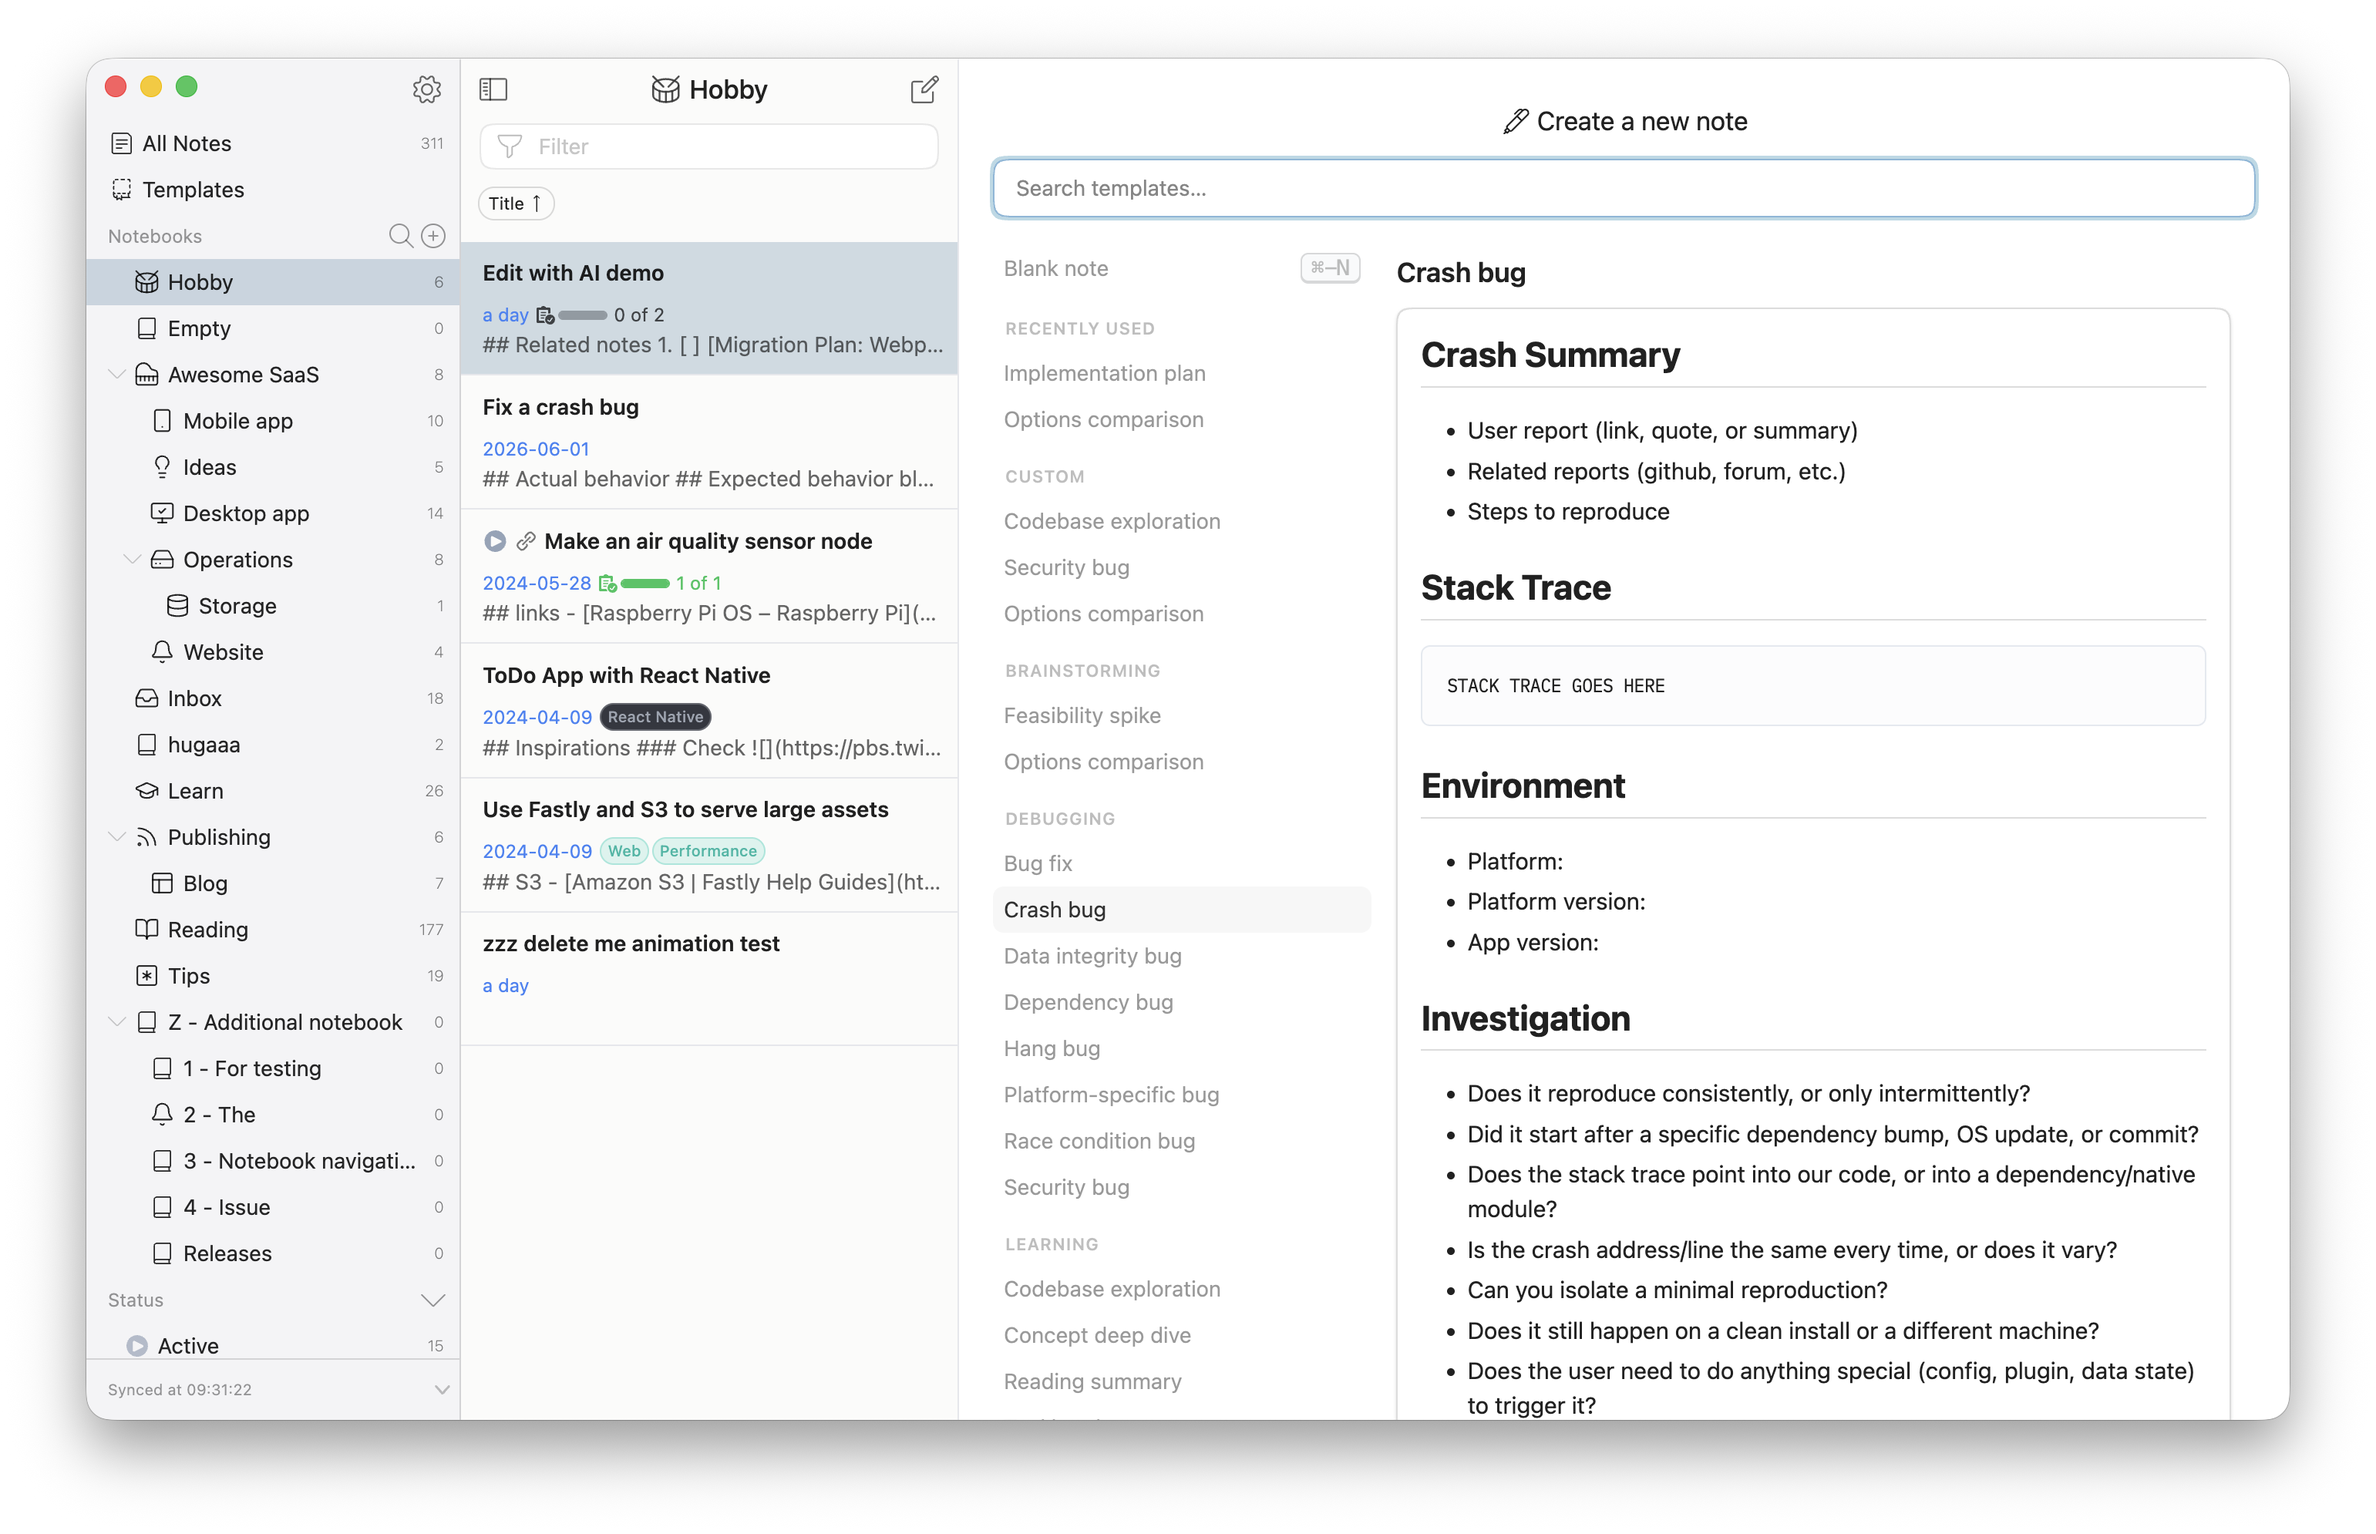
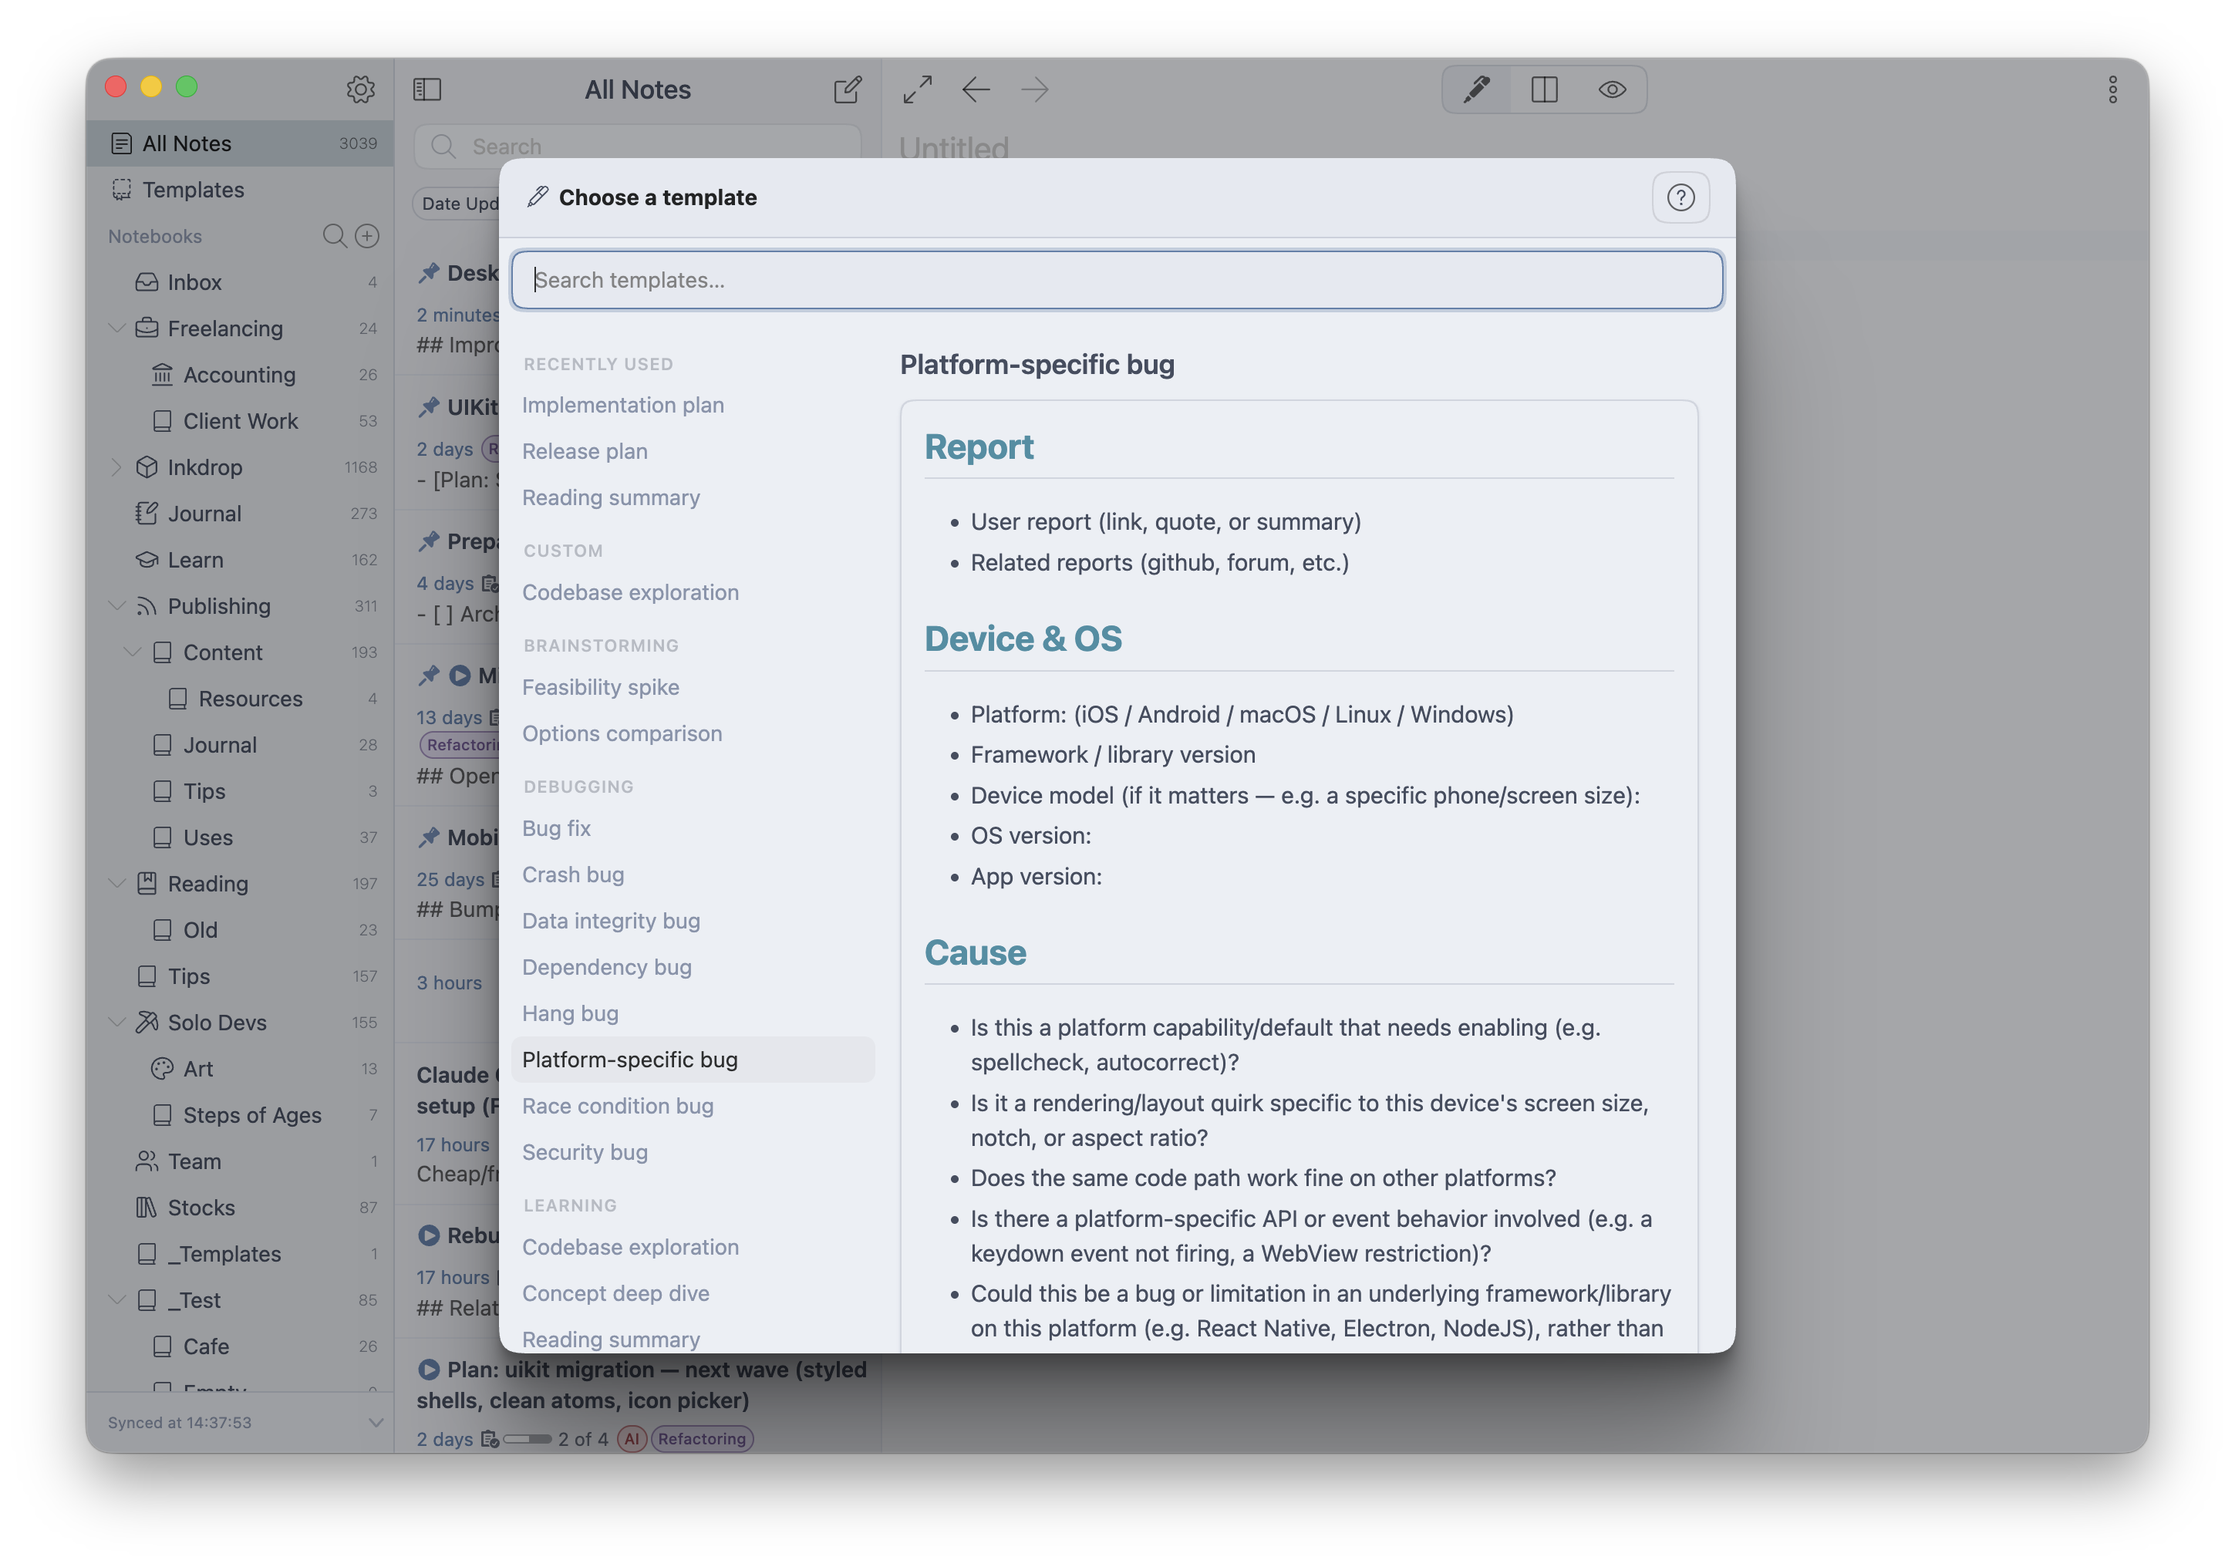
docs(reference): Revise template flow to the Choose a template picker
Update the note-templates and write-notes pages to reflect applying a template to an empty note via Cmd/Ctrl+T (Choose a template), replacing the blank-slate picker steps.

diff --git a/src/app/reference/write-notes/page.md b/src/app/reference/write-notes/page.md
@@ -12,25 +12,20 @@ Inkdrop supports both standard Markdown syntax and the
 
 ## Create notes
 
-To create a note:
-
-1. Click {% icon name="pencil-write" /%} in the upper-right corner of the note list, or press {% kbd s="Command+N" /%} / {% kbd s="Ctrl+N" /%}.  
-   Inkdrop opens the **Create a new note** picker.
-2. Select **Blank note** — or press {% kbd s="Command+N" /%} / {% kbd s="Ctrl+N" /%} again — to start with an untitled empty note.
+To create a note, click {% icon name="pencil-write" /%} in the upper-right corner of the note list, or press {% kbd s="Command+N" /%} / {% kbd s="Ctrl+N" /%}. Inkdrop creates a new, empty, untitled note and opens it for editing.
 
 Name the note, so it'll be easier to look for later.
 
 ### Start from a template
 
-The **Create a new note** picker also lets you start from a [template](/reference/note-templates) — a ready-made note for a common task, such as a daily report, implementation plan, or a bug-fix write-up.
+![The Create a new note picker](/images/write-notes_template-picker.png)
 
-![The Create a new note template picker](/images/write-notes_template-picker.png)
+With the note still empty, press {% kbd s="Command+T" /%} / {% kbd s="Ctrl+T" /%} — or click **Choose a template** in the editor's placeholder text — to open the **Choose a template** picker and start from a [template](/reference/note-templates) instead: a ready-made note for a common task, such as a daily report, implementation plan, or a bug-fix write-up.
 
-1. Open the picker by clicking {% icon name="pencil-write" /%} or pressing {% kbd s="Command+N" /%} / {% kbd s="Ctrl+N" /%}.
-2. Type in the search field to filter the list, or use the {% kbd s="Up" /%} / {% kbd s="Down" /%} arrow keys to browse. The pane on the right previews the selected template.
-3. Press {% kbd s="Enter" /%}, or click a template, to create a note from it.
+1. Type in the search field to filter the list, or use the {% kbd s="Up" /%} / {% kbd s="Down" /%} arrow keys to browse. The pane on the right previews the selected template.
+2. Press {% kbd s="Enter" /%}, or click a template, to apply it.
 
-Recently used templates appear at the top of the list for quick access. See [Note templates](/reference/note-templates) for the full list of built-in templates and how to create your own.
+Recently used templates appear at the top of the list for quick access. See [Note templates](/reference/note-templates) for the full list of built-in templates, how to create your own, and how to start a note directly from a template when the editor has none open.
 
 ## Delete notes
 

diff --git a/src/app/reference/note-templates/page.md b/src/app/reference/note-templates/page.md
@@ -22,18 +22,17 @@ Selecting a template here opens it for viewing or editing — it does **not** cr
 
 ## Create a note from a template
 
-When you create a note, Inkdrop opens the **Create a new note** picker, where you can start from a blank note or from a template.
-
 ![The Create a new note picker](/images/write-notes_template-picker.png)
 
-1. Click {% icon name="pencil-write" /%} in the upper-right corner of the note list, or press {% kbd s="Command+N" /%} / {% kbd s="Ctrl+N" /%}.
-2. Type in the search field to filter the list, or use the {% kbd s="Up" /%} / {% kbd s="Down" /%} arrow keys to browse. The pane on the right previews the selected template.
-3. Press {% kbd s="Enter" /%}, or click a template, to create a note from it.
+1. Create a note — click {% icon name="pencil-write" /%} in the upper-right corner of the note list, or press {% kbd s="Command+N" /%} / {% kbd s="Ctrl+N" /%}. Inkdrop opens a new, empty, untitled note.
+2. With the note still empty, press {% kbd s="Command+T" /%} / {% kbd s="Ctrl+T" /%} — or click **Choose a template** in the editor's placeholder text — to open the **Choose a template** picker.
+3. Type in the search field to filter the list, or use the {% kbd s="Up" /%} / {% kbd s="Down" /%} arrow keys to browse. The pane on the right previews the selected template.
+4. Press {% kbd s="Enter" /%}, or click a template, to apply it.
 
-Your most recently used templates appear in a **Recently used** section at the top of the list, so the templates you rely on stay within easy reach.
+The template's content fills in the note in place. Any tags or [status](/reference/note-statuses) you'd already set on the note are kept — the template only adds to them, it never clears what's there.
 
 {% callout title="Tip" %}
-To start with a plain, empty note, select **Blank note** at the top of the list, or just press {% kbd s="Command+N" /%} / {% kbd s="Ctrl+N" /%} again.
+**Choose a template** is only offered while the note is still empty — once you start typing, use the **Templates** section on the sidebar instead to copy content in manually.
 {% /callout %}
 
 ## Built-in templates
